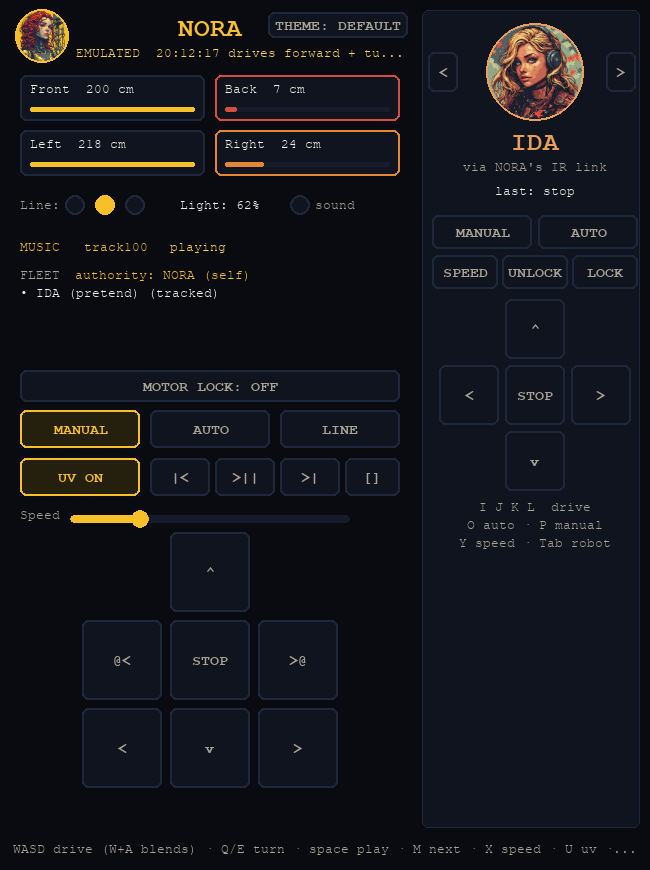
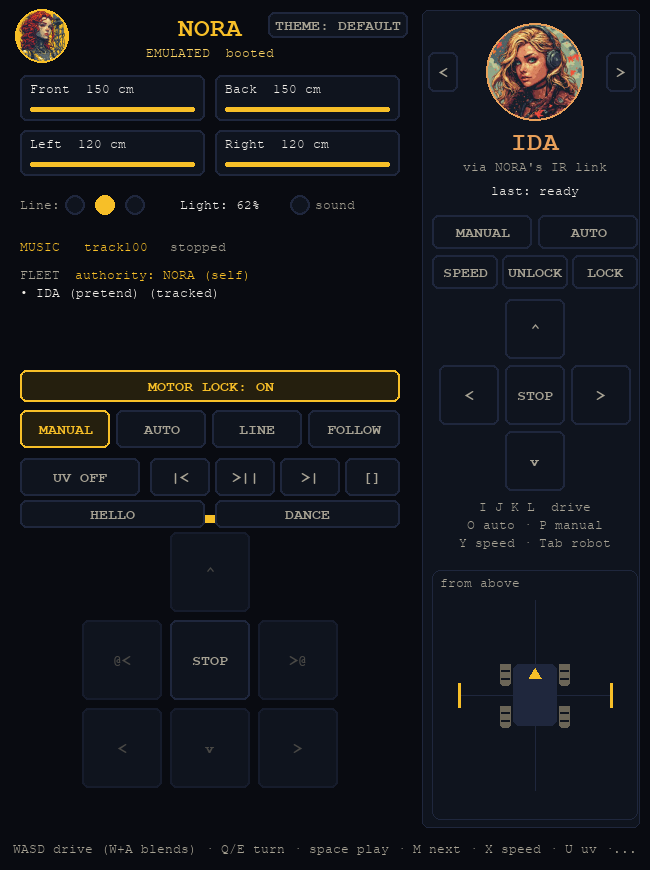
NORA's app: live tiles; a fresh controller screenshot with her view from above

diff --git a/Android App/app/src/main/java/com/synthwomb/nora/MainActivity.kt b/Android App/app/src/main/java/com/synthwomb/nora/MainActivity.kt
@@ -78,6 +78,7 @@ class MainActivity : Activity() {
     private lateinit var state: TextView
     private lateinit var address: EditText
     private lateinit var pin: EditText
+    private lateinit var tiles: LinearLayout
     @Volatile private var running = false
     private var wifi: ConnectivityManager.NetworkCallback? = null
 
@@ -124,17 +125,41 @@ class MainActivity : Activity() {
             })
         }
         val row = LinearLayout(this)
+        tiles = LinearLayout(this)
         robot.buttons.forEach { (name, act) -> row.addView(button(name, act)) }
         setContentView(LinearLayout(this).apply {
             orientation = LinearLayout.VERTICAL
             setBackgroundColor(BG)
             addView(top)
             addView(HorizontalScrollView(context).apply { addView(row) })
+            addView(HorizontalScrollView(context).apply { addView(tiles) })
             addView(sticks, LinearLayout.LayoutParams(-1, 0, 1f))
         })
     }
 
     private fun say(text: String) = runOnUiThread { state.text = text }
+
+    // Its sensors from /status, then whoever it can hear from /near. A robot with no /near just has no
+    // nearby tiles; a robot whose old firmware has no /status uses /sensors.
+    private fun refresh() {
+        val body = link.get("/status") ?: link.get("/sensors") ?: return
+        val sensors = try { robot.tiles(JSONObject(body)) } catch (_: Exception) { emptyList() }
+        val near = Tiles.near(link.get("/near"))
+        runOnUiThread { showTiles(sensors + near) }
+    }
+
+    private fun showTiles(list: List<Pair<String, String>>) {
+        tiles.removeAllViews()
+        for ((title, value) in list) {
+            tiles.addView(TextView(this).apply {
+                text = "$title\n$value"
+                gravity = Gravity.CENTER
+                setTextColor(TEXT)
+                setBackgroundColor(PANEL)
+                setPadding(22, 6, 22, 6)
+            }, LinearLayout.LayoutParams(-2, -2).apply { setMargins(4, 4, 4, 4) })
+        }
+    }
 
     private fun useAddress(ip: String) {
         link.base = "http://$ip:$PORT"
@@ -184,7 +209,7 @@ class MainActivity : Activity() {
                 if (link.base.isNotEmpty()) {
                     val s = sticks
                     work.execute { driver.tick(s.forward, s.side, s.turn) }
-                    if (++beats % 2 == 0) work.execute { link.get("/status") }   // MILA's bridge stops her if this goes quiet
+                    if (++beats % 2 == 0) work.execute { refresh() }   // MILA's bridge stops her if /status goes quiet
                 }
                 Thread.sleep(200)
             }

diff --git a/Android App/app/src/main/java/com/synthwomb/nora/Tiles.kt b/Android App/app/src/main/java/com/synthwomb/nora/Tiles.kt
@@ -1,0 +1,38 @@
+package com.synthwomb.nora
+
+import org.json.JSONObject
+import java.util.Locale
+import kotlin.math.pow
+
+/**
+ * The little windows: (title, value) pairs. Distance comes from radio strength, which walls, bodies
+ * and antennas all change, so it's a rough guess: hence the ~. The robots' sonars measure real distance.
+ */
+object Tiles {
+    /** Rough metres from RSSI: about 1 m at -50 dBm, a typical indoor fall-off. */
+    fun metres(rssi: Double): Double = 10.0.pow((-50.0 - rssi) / 25.0)
+
+    fun roughDistance(rssi: Double): String {
+        val m = metres(rssi)
+        return if (m < 10) String.format(Locale.ROOT, "~%.1f m", m) else String.format(Locale.ROOT, "~%.0f m", m)
+    }
+
+    /** A robot's /near: every robot it can hear, nearest first. */
+    fun near(json: String?): List<Pair<String, String>> {
+        val robots = try {
+            JSONObject(json ?: return emptyList()).optJSONArray("robots") ?: return emptyList()
+        } catch (_: Exception) {
+            return emptyList()
+        }
+        return (0 until robots.length()).map { i ->
+            val r = robots.getJSONObject(i)
+            r.optString("name") to roughDistance(r.optDouble("rssi", -100.0))
+        }
+    }
+
+    fun cm(v: Any?): String = when (v) {
+        null, JSONObject.NULL -> "--"
+        is Number -> if (v.toDouble() <= 0 || v.toDouble() >= 400) "--" else "${v.toInt()} cm"
+        else -> v.toString().toDoubleOrNull()?.let { cm(it) } ?: "--"
+    }
+}

diff --git a/Android App/app/src/test/java/com/synthwomb/nora/RobotTest.kt b/Android App/app/src/test/java/com/synthwomb/nora/RobotTest.kt
@@ -35,6 +35,18 @@ class RobotTest {
         assertEquals(listOf("/motorlockOff?pw=1234", "/modeManual", "/drive?f=1.00&s=0.00&t=0.00", "/stop"), http.calls)
     }
 
+    @Test fun tilesReadItsStatus() {
+        val tiles = Robot(Recorder()).tiles(org.json.JSONObject("""{"F":150.0,"B":-1,"L":12.5,"R":120,"lt":62,"temp":21.5,"hum":40.0}"""))
+        assertTrue(tiles.toString(), tiles.contains("Front" to "150 cm"))
+    }
+
+    @Test fun nearbyRobotsGetARoughDistance() {
+        val near = Tiles.near("""{"robots":[{"name":"WHIP","rssi":-50},{"name":"NORA","rssi":-75}]}""")
+        assertEquals(listOf("WHIP" to "~1.0 m", "NORA" to "~10 m"), near)
+        assertTrue(Tiles.near(null).isEmpty())
+        assertTrue(Tiles.near("not json").isEmpty())
+    }
+
     @Test fun everyButtonSendsSomething() {
         val http = Recorder()
         Robot(http).buttons.forEach { (_, act) -> act() }

diff --git a/Android App/app/src/main/java/com/synthwomb/nora/Robot.kt b/Android App/app/src/main/java/com/synthwomb/nora/Robot.kt
@@ -1,5 +1,6 @@
 package com.synthwomb.nora
 
+import org.json.JSONObject
 import java.util.Locale
 
 // What NORA takes: the same calls as RITA and her PC controller.
@@ -14,6 +15,16 @@ class Robot(private val http: Http) : RobotApi {
         http.get("/drive?f=${n(forward)}&s=${n(side)}&t=${n(turn)}")
     }
     override fun stop() { http.get("/stop") }
+    override fun tiles(s: JSONObject) = listOf(
+        "Front" to Tiles.cm(s.opt("F")),
+        "Back" to Tiles.cm(s.opt("B")),
+        "Left" to Tiles.cm(s.opt("L")),
+        "Right" to Tiles.cm(s.opt("R")),
+        "Light" to "${s.optInt("lt")}%",
+        "Temp" to "${s.optString("temp", "--")}\u00b0C",
+        "Humidity" to "${s.optString("hum", "--")}%",
+    )
+
     override val buttons = listOf(
         "MANUAL" to { http.get("/modeManual"); Unit },
         "AUTO" to { http.get("/modeAuto"); Unit },

diff --git a/Android App/app/src/main/java/com/synthwomb/nora/RobotApi.kt b/Android App/app/src/main/java/com/synthwomb/nora/RobotApi.kt
@@ -1,5 +1,7 @@
 package com.synthwomb.nora
 
+import org.json.JSONObject
+
 /** How the app reaches the robot: swapped for a recorder in the tests. */
 interface Http {
     fun get(path: String): String?
@@ -12,6 +14,8 @@ interface RobotApi {
     fun drive(forward: Float, side: Float, turn: Float)
     fun stop()
     val buttons: List<Pair<String, () -> Unit>>
+    /** Its sensors, from its /status: (title, value) */
+    fun tiles(s: JSONObject): List<Pair<String, String>>
 }
 
 /**
